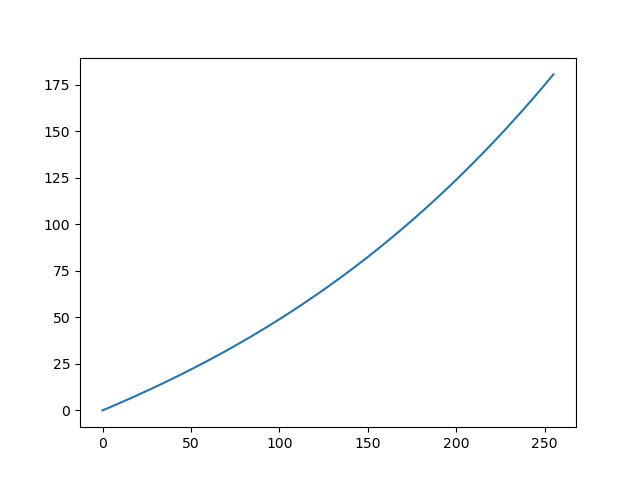
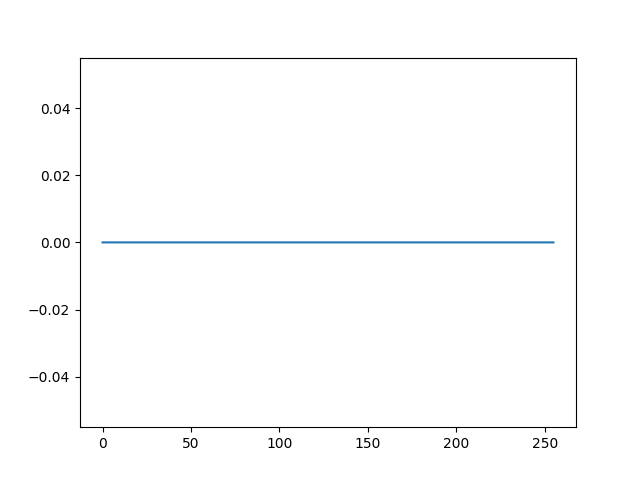
CurveTool added

diff --git a/MaskProject/main.py b/MaskProject/main.py
@@ -47,8 +47,6 @@ class MaskUI:
     def UpdateCurveToolWindow(self):
         print("update CurveTool Window")
 
-    def UpdateCurve(self):
-        print("update curve")
 
     def BuildUI(self):
         app = QApplication(sys.argv)
@@ -133,19 +131,25 @@ class MaskUI:
         tabCurveTool = QWidget()
 
         lineEditLabel1 = QLabel("Value 1")
-        lineEditValue1 = QLineEdit()
+        lineEditValue1 = QSlider(Qt.Orientation.Horizontal)
+        lineEditValue1.setMinimum(-10)
+        lineEditValue1.setMaximum(10)
         lineEditLayout1 = QHBoxLayout()
         lineEditLayout1.addWidget(lineEditLabel1)
         lineEditLayout1.addWidget(lineEditValue1)
 
         lineEditLabel2 = QLabel("Value 2")
-        lineEditValue2 = QLineEdit()
+        lineEditValue2 = QSlider(Qt.Orientation.Horizontal)
+        lineEditValue2.setMinimum(-10)
+        lineEditValue2.setMaximum(10)
         lineEditLayout2 = QHBoxLayout()
         lineEditLayout2.addWidget(lineEditLabel2)
         lineEditLayout2.addWidget(lineEditValue2)
 
         lineEditLabel3 = QLabel("Value 3")
-        lineEditValue3 = QLineEdit()
+        lineEditValue3 = QSlider(Qt.Orientation.Horizontal)
+        lineEditValue3.setMinimum(-10)
+        lineEditValue3.setMaximum(10)
         lineEditLayout3 = QHBoxLayout()
         lineEditLayout3.addWidget(lineEditLabel3)
         lineEditLayout3.addWidget(lineEditValue3)
@@ -154,16 +158,13 @@ class MaskUI:
         curveToolPixmap = QPixmap('imageData/plot.png')
         curveToolImage.setPixmap(curveToolPixmap)
 
-        curveUpdateBtn = QPushButton("Update Curve")
-        curveUpdateBtn.clicked.connect(self.UpdateCurve)
         colorChannelSelect = QComboBox()
-        colorChannelSelect.addItems(["Red", "Green", "Blue"])
+        colorChannelSelect.addItems(["Red", "Green", "Blue", "All"])
 
         curveToolLayout.addLayout(lineEditLayout1)
         curveToolLayout.addLayout(lineEditLayout2)
         curveToolLayout.addLayout(lineEditLayout3)
         curveToolLayout.addWidget(curveToolImage)
-        curveToolLayout.addWidget(curveUpdateBtn)
         curveToolLayout.addWidget(colorChannelSelect)
 
         #TAB 4 - BLUR FILTER
@@ -234,22 +235,31 @@ class MaskUI:
         self.sliderSaturation.sliderReleased.connect(self.maskManager.SaturationChangeForce)
         self.sliderSaturation.valueChanged.connect(lambda: labelSatSlider.setText(str(self.sliderSaturation.value())))
 
-        lineEditValue1.editingFinished.connect(
-            lambda: self.maskManager.UpdateCurveTool(lineEditValue1.text(), lineEditValue2.text(),
-                                                     lineEditValue3.text()))
-        lineEditValue2.editingFinished.connect(
-            lambda: self.maskManager.UpdateCurveTool(lineEditValue1.text(), lineEditValue2.text(),
-                                                     lineEditValue3.text()))
-        lineEditValue3.editingFinished.connect(
-            lambda: self.maskManager.UpdateCurveTool(lineEditValue1.text(), lineEditValue2.text(),
-                                                     lineEditValue3.text()))
-        lineEditValue1.editingFinished.connect(self.UpdateCurveToolWindow)
-        lineEditValue2.editingFinished.connect(self.UpdateCurveToolWindow)
-        lineEditValue3.editingFinished.connect(self.UpdateCurveToolWindow)
+        lineEditValue1.valueChanged.connect(
+            lambda: self.maskManager.UpdateCurveTool(lineEditValue1.value(), lineEditValue2.value(),
+                                                     lineEditValue3.value(), colorChannelSelect.currentText()))
+        lineEditValue2.valueChanged.connect(
+            lambda: self.maskManager.UpdateCurveTool(lineEditValue1.value(), lineEditValue2.value(),
+                                                     lineEditValue3.value(), colorChannelSelect.currentText()))
+        lineEditValue3.valueChanged.connect(
+            lambda: self.maskManager.UpdateCurveTool(lineEditValue1.value(), lineEditValue2.value(),
+                                                     lineEditValue3.value(), colorChannelSelect.currentText()))
+        lineEditValue1.valueChanged.connect(self.UpdateCurveToolWindow)
+        lineEditValue2.valueChanged.connect(self.UpdateCurveToolWindow)
+        lineEditValue3.valueChanged.connect(self.UpdateCurveToolWindow)
+        colorChannelSelect.currentIndexChanged.connect(
+            lambda: self.maskManager.UpdateCurveTool(lineEditValue1.value(), lineEditValue2.value(),
+                                                     lineEditValue3.value(), colorChannelSelect.currentText()))
 
-        applyBackgroundCheck.stateChanged.connect(lambda: self.maskManager.BlurChange(blurIntensitySlider.value(), applyBackgroundCheck.checkState(), applyFilterCheck.checkState()))
-        applyFilterCheck.stateChanged.connect(lambda: self.maskManager.BlurChange(blurIntensitySlider.value(), applyBackgroundCheck.checkState(), applyFilterCheck.checkState()))
-        blurIntensitySlider.valueChanged.connect(lambda: self.maskManager.BlurChange(blurIntensitySlider.value(), applyBackgroundCheck.checkState(), applyFilterCheck.checkState()))
+        applyBackgroundCheck.stateChanged.connect(
+            lambda: self.maskManager.BlurChange(blurIntensitySlider.value(),
+                                                applyBackgroundCheck.checkState(), applyFilterCheck.checkState()))
+        applyFilterCheck.stateChanged.connect(
+            lambda: self.maskManager.BlurChange(blurIntensitySlider.value(),
+                                                applyBackgroundCheck.checkState(), applyFilterCheck.checkState()))
+        blurIntensitySlider.valueChanged.connect(
+            lambda: self.maskManager.BlurChange(blurIntensitySlider.value(),
+                                                applyBackgroundCheck.checkState(), applyFilterCheck.checkState()))
 
 
         self.maskManager.SetUIreferences(mainImage, dropdownInstances, dropdownClasses)

diff --git a/MaskProject/MaskManager.py b/MaskProject/MaskManager.py
@@ -177,6 +177,40 @@ class MaskManager:
         self.displayGraphicLabel.setPixmap(pixmap)
         self.selectedImage.currentGraphic = mergedImg
 
+    def DrawMaskWithCurveTool(self, mask):
+        drawingImg = cv2.imread("imageData/" + self.selectedImage.imageName + "/curve.png")[mask.minX:mask.maxX,
+                     mask.minY:mask.maxY]
+        if not drawingImg.any():
+            drawingImg = self.baseGraphic.copy()[mask.minX:mask.maxX, mask.minY:mask.maxY]
+
+        groupSettings = []
+        for cMask in self.selectedImage.classList:
+            if cMask.maskList.__contains__(mask):
+                groupSettings.append(cMask.maskSettings)
+
+        for gMask in self.selectedImage.groupList:
+            if gMask.maskList.__contains__(mask):
+                groupSettings.append(gMask.maskSettings)
+
+        totalBrightness = mask.maskSettings.brightness
+        totalSaturation = mask.maskSettings.saturation
+
+        for settings in groupSettings:
+            totalBrightness += settings.brightness
+            totalSaturation += settings.saturation
+
+        drawingImg = self.simpleEdits.DrawBrightness(totalBrightness, drawingImg)
+        drawingImg = self.simpleEdits.DrawSaturation(totalSaturation, drawingImg)
+
+        blankImg = self.baseGraphic.copy()
+        blankImg[mask.minX:mask.maxX, mask.minY:mask.maxY] = drawingImg
+        mergedImg = np.where(mask.maskTrueFalse == True, blankImg, self.selectedImage.currentGraphic)
+
+        cv2.imwrite(self.imageFullPath + self.editFilename, mergedImg)
+        pixmap = QPixmap(self.imageFullPath + self.editFilename)
+        self.displayGraphicLabel.setPixmap(pixmap)
+        self.selectedImage.currentGraphic = mergedImg
+
     def DrawSelectedMask(self):
         if self.selectedIsGroup:
             for mask in self.selectedMask.maskList:
@@ -237,11 +271,13 @@ class MaskManager:
     def getCurrentSaturation(self):
         return self.selectedMask.maskSettings.saturation
 
-    def UpdateCurveTool(self, value1, value2, value3):
-        print("update curvetool")
+    def UpdateCurveTool(self, value1, value2, value3, colorChannel):
+        self.curveTool.sliderChange(value1, value2, value3, colorChannel,
+                                    self.selectedMask, self.selectedImage)
 
     def BlurChange(self, blurValue, backgroundState, filterState):
-        blurImage = self.blur.BlurFilter(self.selectedImage.currentGraphic, self.selectedMask, self.imageFullPath, blurValue, backgroundState, filterState)
+        blurImage = self.blur.BlurFilter(self.selectedImage.currentGraphic, self.selectedMask,
+                                         self.imageFullPath, blurValue, backgroundState, filterState)
 
         if blurImage is not None:
             cv2.imwrite(self.imageFullPath + self.blurFilename, blurImage)

diff --git a/MaskProject/CurveTool.py b/MaskProject/CurveTool.py
@@ -1,6 +1,39 @@
-
+import cv2
+import numpy as np
+import matplotlib.pyplot as pl
 
 class CurveTool:
 
-    def __init__(self):
-        print("curvetool")
+    def convertValue(self, value, val1, val2, val3):
+        look_up_table = np.zeros((256, 1), dtype='uint8')
+        for i in range(256):
+            look_up_table[i][0] = (float(val1/1000000) * i ** 3) + (float(val2/1000) * i ** 2) + (float(val3) * i)
+            lutImg = np.zeros_like(value)
+            lut = cv2.LUT(value, look_up_table, lutImg)
+        return lut
+
+    def sliderChange(self, val1, val2, val3, channel, mask, image):
+        fig = pl.figure()
+        self.x = np.arange(0, 255, 0.1)
+        self.y = (float(val1 / 1000000) * self.x ** 3) + (float(val2 / 1000) * self.x ** 2) + (
+                    float(val3) * self.x / 100)
+        pl.plot(self.x, self.y)
+        fig.savefig('imageData/plot.png')
+        pl.close(fig)
+        newImage = cv2.imread(image.baseImagePath)
+        b, g, r = cv2.split(newImage)
+        if channel == "Blue":
+            b = np.clip(self.convertValue(b, val1, val2, val3), 0, 255)
+        elif channel == "Green":
+            g = np.clip(self.convertValue(g, val1, val2, val3), 0, 255)
+        elif channel == "Red":
+            r = np.clip(self.convertValue(r, val1, val2, val3), 0, 255)
+        elif channel == "All":
+            b = np.clip(self.convertValue(b, val1, val2, val3), 0, 255)
+            g = np.clip(self.convertValue(g, val1, val2, val3), 0, 255)
+            r = np.clip(self.convertValue(r, val1, val2, val3), 0, 255)
+        else:
+            return
+        newImg = cv2.merge((b, g, r))
+        cv2.imwrite("imageData/" + image.imageName + "/curve.png", newImg)
+        cv2.imshow("curve", newImg)
